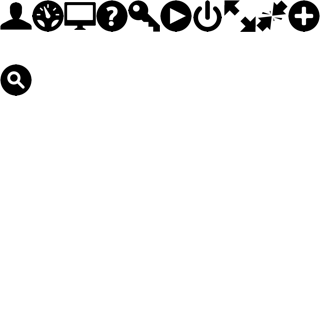
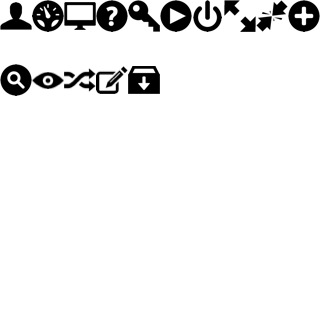
Creating list in header for programs info

Changed region(s): [[0.0938, 0.1875, 0.5, 0.3125]]

diff --git a/app/assets/stylesheets/_redesign-header.scss b/app/assets/stylesheets/_redesign-header.scss
@@ -147,6 +147,66 @@
       font-weight: bold;
     }
   }
+  .program-list {
+    @include clearfix();
+    @include reset-list();
+    margin-top: 35px;
+    li {
+      float:left;
+      line-height: 16px;
+      margin-left: 20px;
+      &.open {
+        a {
+          @include box-shadow(none);
+        }
+      }
+      &.btn-group {
+        margin-top: 0;
+        .dropdown-toggle {
+          @include box-shadow(none);
+          padding: 0;
+        }
+        .dropdown-menu {
+          li {
+            margin: 0;
+            float: none;
+            clear: both;
+            &.divider {
+              margin: 8px 0;
+            }
+          }
+          a {
+            color: $black;
+            text-align: left;
+            font-size: 13px;
+            font-weight: normal;
+            margin: 0;
+            text-transform: none;
+            display: block;
+          }
+        }
+      }
+      a {
+        color: $gray;
+        font-size: 11px;
+        line-height: 16px;
+        font-weight: bold;
+        text-transform: uppercase;
+        @include transition(color 0.3s ease);
+        i {
+          @include opacity(0.4);
+          @include transition(opacity 0.3s ease);
+        }
+        &:hover {
+          text-decoration: none;
+          color: $black;
+          i {
+            @include opacity(1);
+          }
+        }
+      }
+    }
+  }
 }
 
 .breadcrumbs {

diff --git a/app/assets/stylesheets/_icons.scss b/app/assets/stylesheets/_icons.scss
@@ -178,6 +178,34 @@
     background-position:0 -32px;
   }
 }
+.grcicon-edit-new {
+  @include new-icons();
+  background-position:-48px -32px;
+  .active & {
+    background-position:-48px -48px;
+  }
+}
+.grcicon-audit {
+  @include new-icons();
+  background-position:-16px -32px;
+  .active & {
+    background-position:-16px -48px;
+  }
+}
+.grcicon-imp-exp {
+  @include new-icons();
+  background-position:-64px -32px;
+  .active & {
+    background-position:-64px -48px;
+  }
+}
+.grcicon-reg-map {
+  @include new-icons();
+  background-position:-32px -32px;
+  .active & {
+    background-position:-32px -48px;
+  }
+}
 
 
 .grcicon-sortUp             { background-position:-22px -2px; }
